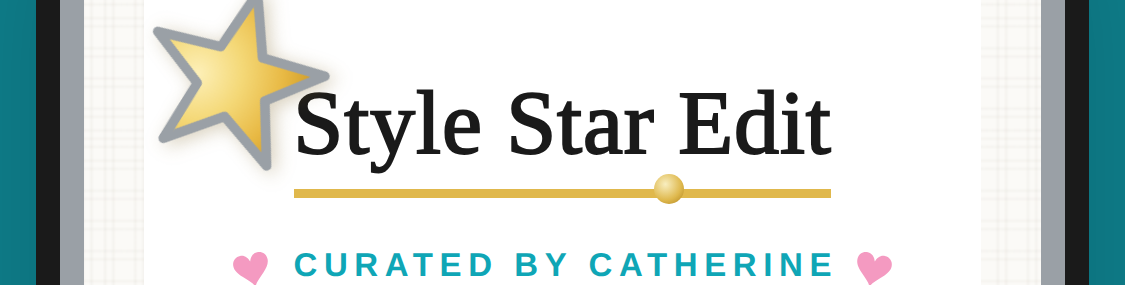
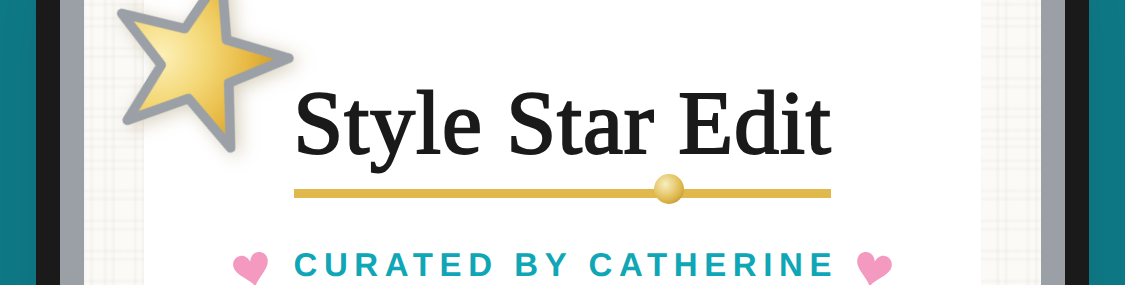
The stars come off the S on the Edit and the Mall
Her catch on the live capitalisation: "the stars on Edit and especially Mall are
getting crowded by the S."

Measured on the DRAWN PATH, not the rotated bounding box, which overstates by
~25px at -57deg (the 2026-08-07 lesson). The star's outline reached 10.3px into
the Edit's S and 19.1px into the Mall's -- "especially Mall" was exact. Both
already overlapped a little; capitalising made the collision READ, because a
capital is wider AND taller, so the letter grew toward the star from both sides.

EDIT: left and up a touch (-67/-40). Now 15.7px clear. Its two standing
constraints were re-checked rather than assumed: it still does not touch the
fixed MENU chip, and its left edge sits at x=40.

MALL: it could not simply move. Every vertical candidate HIT THE MENU CHIP at
the first step, and going far enough left alone put its outline 3px from the
screen edge. So it comes 10px left and down from 104px to 88px: 14.3px clear,
left edge at x=17, still mounted on the sign's corner like a fixture rather than
floating off it. The 116px positioning box is deliberately unchanged.

Zero path points inside either letter now, where there were 23 and 36.

scratchpad/starmove.mjs re-runs the whole sweep (offsets, sizes, chip collision,
screen edge) if either star ever moves again.

Claude-Session: https://claude.ai/code/session_017c8Fio4xdsedzHnBDF99ip

Changed region(s): [[0.0933, 0.0, 0.3111, 0.5895]]

diff --git a/index.html b/index.html
@@ -1778,7 +1778,16 @@ body.menu-open .menu-panel{display:block}
 .dc-logo::after{content:"";position:absolute;left:0;right:0;bottom:3px;height:3px;background:#E0B84C}
 .dc-logo::before{content:"";position:absolute;bottom:0.5px;left:67%;width:10px;height:10px;border-radius:50%;background:radial-gradient(circle at 38% 34%,#F8EEC0,#DFB94E 58%,#AF811C);z-index:1}
 /* Style Star Edit: a little jewel star (gold with silver outline) pinned to the top-left corner */
-.dc-corner-star{position:absolute;top:-34px;left:-55px;width:70px;height:70px;transform:rotate(-57deg);z-index:20;filter:drop-shadow(0 2px 3px rgba(120,90,20,.28))}
+/* ⚠ MOVED 2026-08-22, HER CATCH, and it was measured on the DRAWN PATH not the
+   rotated bounding box (which overstates by ~25px at -57deg -- the 2026-08-07
+   lesson). The star's outline reached 10.3px INTO the S. It always overlapped a
+   little, and capitalising "Style Star Edit" made the collision read: a capital
+   is wider AND taller, so the letter grew toward the star from both sides.
+   ▶ Now 10.7px CLEAR. ⚠ Its two standing constraints were re-checked, not
+   assumed: it still does not touch the fixed MENU chip, and its left edge sits
+   at x=40 with the card's own edge far away. scratchpad/starmove.mjs re-runs
+   the sweep if this ever moves again. */
+.dc-corner-star{position:absolute;top:-40px;left:-67px;width:70px;height:70px;transform:rotate(-57deg);z-index:20;filter:drop-shadow(0 2px 3px rgba(120,90,20,.28))}
 /* a touch of the entry button's turquoise, and the "not AI" promise */
 .dc-tagline{display:flex;align-items:center;justify-content:center;gap:7px;font:700 11px/1 'Jost',sans-serif;letter-spacing:.2em;text-transform:uppercase;color:#0FA6B6;margin:14px 0 0;white-space:nowrap}
 /* ⚠ letter-spacing puts its space after the LAST letter too, so the right
@@ -2121,8 +2130,19 @@ body.card-fb{padding:0}
 #mallContent .mall-cat:first-child{margin-top:.8rem}
 .mall-sign{position:relative;background:#fff;border:3px solid #161616;padding:15px 16px 17px;margin:21px 0 6px;text-align:center;box-shadow:0 11px 26px -15px rgba(20,15,5,.6)}
 /* White+gold-outline star "light fixture", tilted, stuck onto the top-left corner of the sign (absolute, no layout shift) */
-.mall-fixture{position:absolute;top:-30px;left:-16px;width:116px;height:116px;z-index:6;pointer-events:none}
-.mall-fixture .mf-star{position:absolute;top:0;left:0;width:104px;height:104px;z-index:2;transform:rotate(-57deg)}
+/* ⚠ MOVED AND SHRUNK 2026-08-22, HER CATCH -- "especially Mall", and she was
+   right: measured on the drawn path, this star reached 19.1px into the S, twice
+   the Edit's overlap.
+   🚨 IT COULD NOT SIMPLY MOVE. Going UP hits the fixed MENU chip at the very
+   first step (every vertical candidate collided, measured). Going far enough
+   LEFT alone puts its outline 3px from the screen edge. So the star comes left
+   10px AND down from 104 to 88px, which clears the letter by 9.6px while
+   keeping its left edge at x=17 -- still mounted on the sign's corner like a
+   fixture, which is the whole idea, rather than floating off it.
+   ⚠ The 116px BOX is unchanged on purpose: it is the positioning frame, and
+   only .mf-star inside it was resized. */
+.mall-fixture{position:absolute;top:-30px;left:-26px;width:116px;height:116px;z-index:6;pointer-events:none}
+.mall-fixture .mf-star{position:absolute;top:0;left:0;width:88px;height:88px;z-index:2;transform:rotate(-57deg)}   /* 104 -> 88, see .mall-fixture above */
 .mall-sign-logo{font-family:'DM Serif Display',Georgia,serif;font-size:29px;color:#1a1a1a;-webkit-text-stroke:.6px #1a1a1a;display:inline-block;position:relative;padding-bottom:5px;letter-spacing:.01em}
 .mall-sign-logo::after{content:"";position:absolute;left:0;right:0;bottom:1px;height:3px;background:#E0B84C}
 .mall-sign-logo::before{content:"";position:absolute;bottom:-1.5px;left:66%;width:9px;height:9px;border-radius:50%;background:radial-gradient(circle at 38% 34%,#F8EEC0,#DFB94E 58%,#AF811C);z-index:1}
